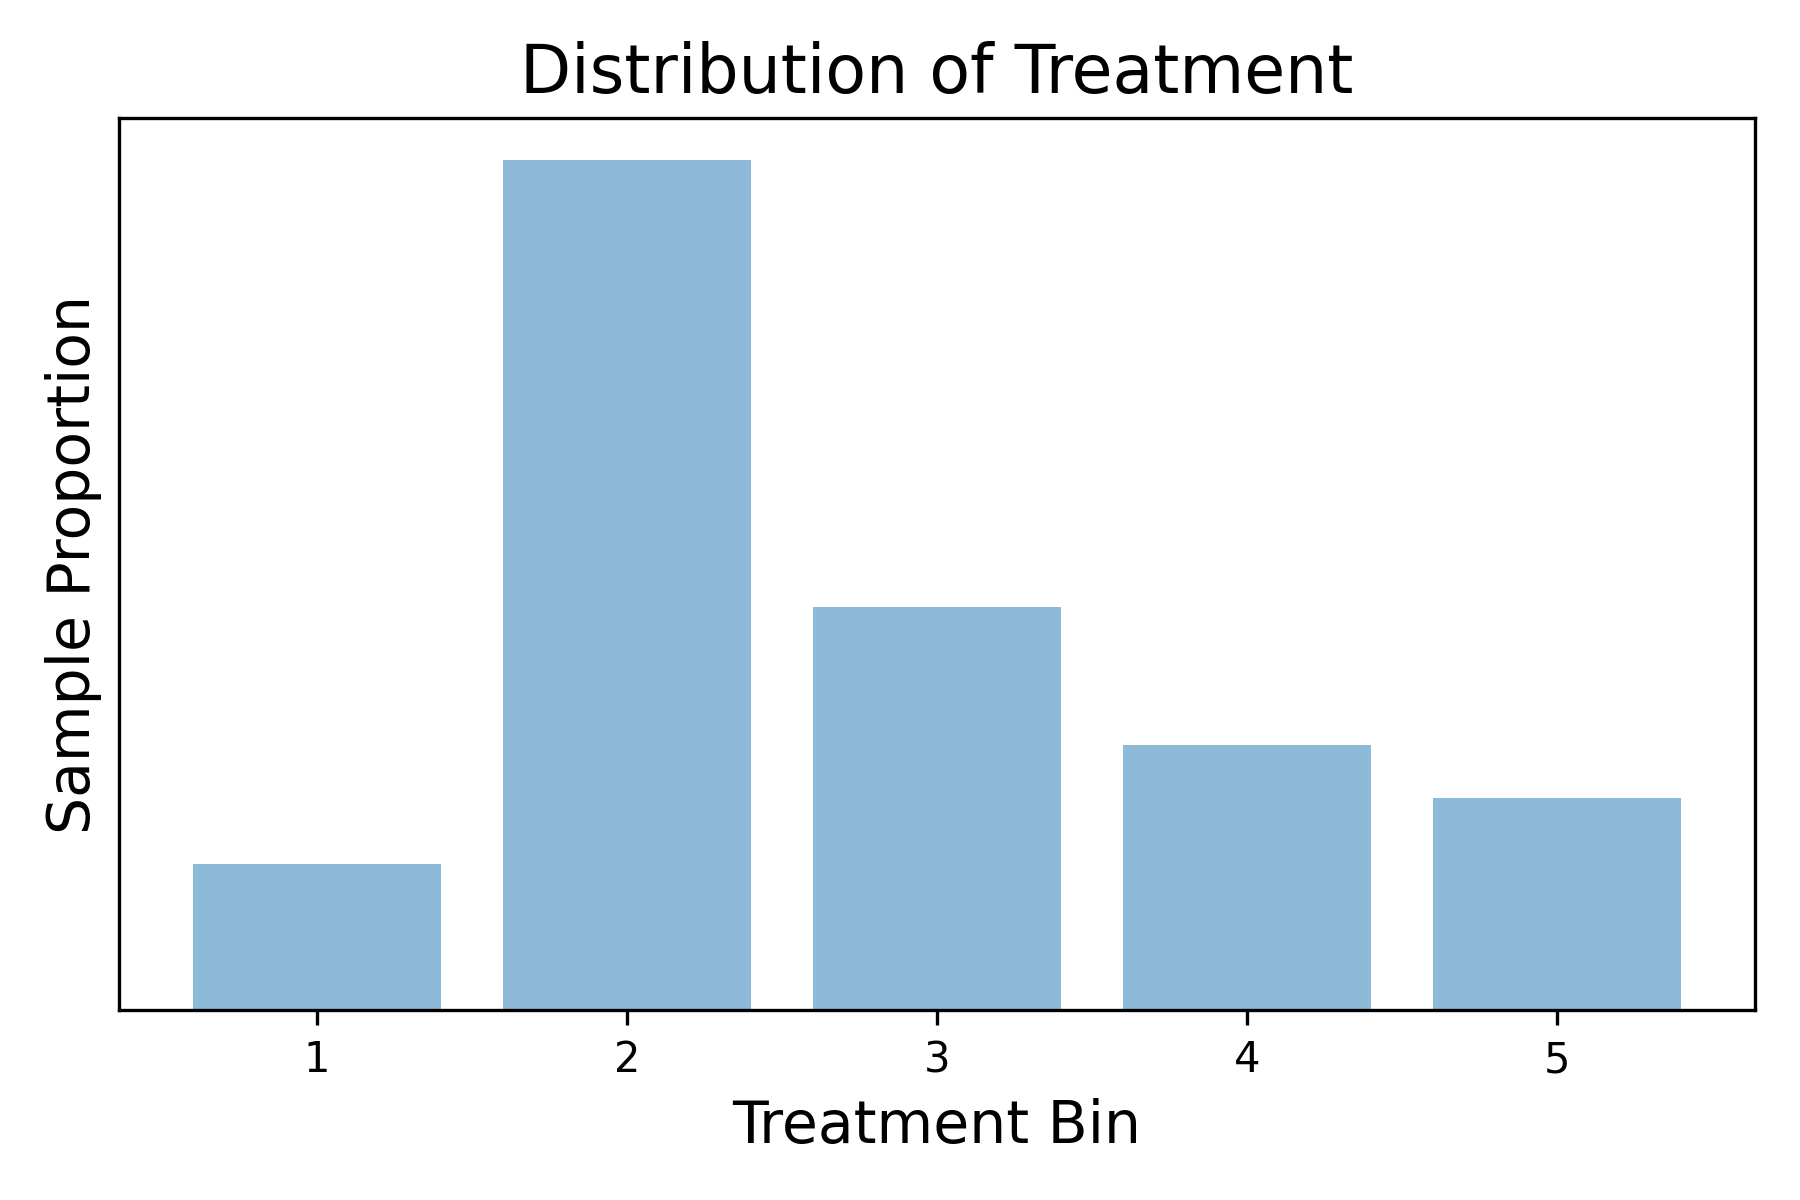
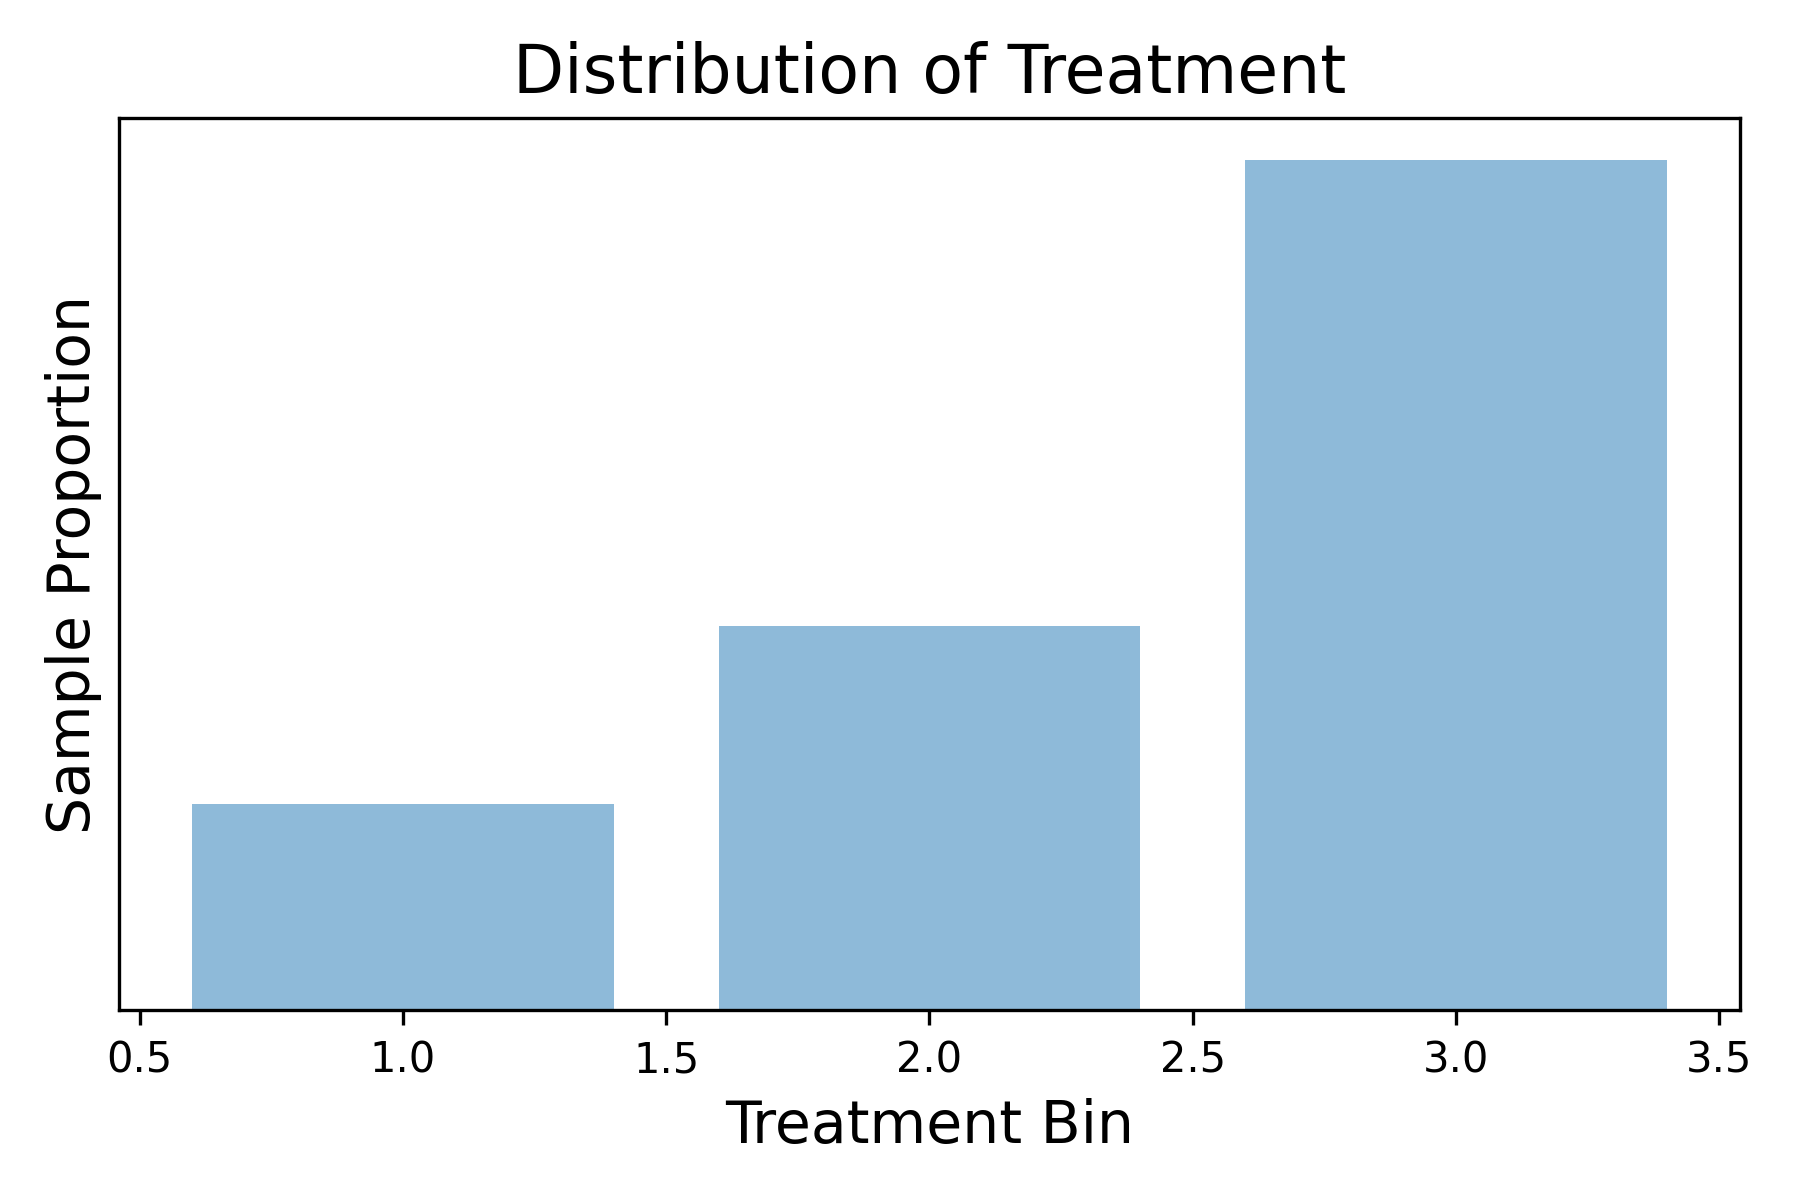
Update empirical code

diff --git a/code/empirics.py b/code/empirics.py
@@ -56,6 +56,11 @@ def require_nonzero_std(value, name):
         )
 
 
+def validate_num_bins(num_bins):
+    if not isinstance(num_bins, int) or num_bins < 2:
+        raise ValueError("`num_bins` must be an integer >= 2.")
+
+
 def add_intercept(x):
     x = np.asarray(x, dtype=float)
     return np.c_[np.ones(x.shape[0]), x]
@@ -119,8 +124,13 @@ def train_lgbm_regressor(train_df, validate_df, label_col, min_data_in_leaf):
         params={
             "objective": "regression",
             "metric": "l2",
-            "num_leaves": 1000,
+            "learning_rate": 0.05,
+            "num_leaves": 63,
             "min_data_in_leaf": min_data_in_leaf,
+            "feature_fraction": 0.9,
+            "bagging_fraction": 0.8,
+            "bagging_freq": 1,
+            "lambda_l2": 1.0,
             "seed": SEED,
         },
         train_set=train_data,
@@ -131,22 +141,22 @@ def train_lgbm_regressor(train_df, validate_df, label_col, min_data_in_leaf):
     return model
 
 
-def train_propensity_model(train_df, validate_df, coarse_col):
+def train_propensity_model(train_df, validate_df, coarse_col, num_bins):
     clf = lgb.LGBMClassifier(
         objective="multiclass",
-        num_classes=BUCKETS,
+        num_classes=num_bins,
         metric="multi_logloss",
-        learning_rate=0.01,
+        learning_rate=0.05,
         max_depth=-1,
-        n_estimators=5000,
-        min_data_in_leaf=5,
-        max_bin=1024,
-        num_leaves=1023,
-        feature_fraction=1.0,
-        bagging_fraction=1.0,
-        bagging_freq=0,
+        n_estimators=1500,
+        min_data_in_leaf=30,
+        max_bin=255,
+        num_leaves=127,
+        feature_fraction=0.9,
+        bagging_fraction=0.8,
+        bagging_freq=1,
         lambda_l1=0.0,
-        lambda_l2=0.0,
+        lambda_l2=1.0,
         min_gain_to_split=0.0,
         seed=SEED,
         verbosity=-1,
@@ -182,8 +192,13 @@ def train_aipw_outcome_model(train_df, validate_df, coarse_col):
         params={
             "objective": "regression",
             "metric": "l2",
-            "num_leaves": 255,
-            "min_data_in_leaf": 50,
+            "learning_rate": 0.05,
+            "num_leaves": 63,
+            "min_data_in_leaf": 30,
+            "feature_fraction": 0.9,
+            "bagging_fraction": 0.8,
+            "bagging_freq": 1,
+            "lambda_l2": 1.0,
             "seed": SEED,
         },
         train_set=train_data,
@@ -193,28 +208,25 @@ def train_aipw_outcome_model(train_df, validate_df, coarse_col):
     )
 
 
-def compute_quartiles(series):
+def compute_nonzero_cutpoints(series, num_bins):
+    validate_num_bins(num_bins)
     non_zero_series = series[series > EPS]
-    if len(non_zero_series) == 0:
-        return np.array([EPS, EPS, EPS], dtype=float)
-    return np.percentile(non_zero_series, [25, 50, 75])
+    positive_bins = num_bins - 1
+    if positive_bins <= 1 or len(non_zero_series) == 0:
+        return np.array([], dtype=float)
+    quantiles = np.linspace(0, 100, positive_bins + 1)[1:-1]
+    return np.percentile(non_zero_series, quantiles)
 
 
-def coarsener(x, quartiles):
+def coarsener(x, cutpoints):
     if x <= EPS:
         return 0
-    if x <= quartiles[0]:
-        return 1
-    if x <= quartiles[1]:
-        return 2
-    if x <= quartiles[2]:
-        return 3
-    return 4
+    return int(np.searchsorted(cutpoints, x, side="right") + 1)
 
 
-def coarsen_treatment(df, quartiles):
+def coarsen_treatment(df, cutpoints):
     out = df.copy()
-    out[f"{TREATMENT}_coarse"] = out[TREATMENT].map(lambda x: coarsener(x, quartiles)).astype(int)
+    out[f"{TREATMENT}_coarse"] = out[TREATMENT].map(lambda x: coarsener(x, cutpoints)).astype(int)
     return out
 
 
@@ -293,7 +305,8 @@ def run_rorr(
     }
 
 
-def run_coarsened_aipw(state):
+def run_coarsened_aipw(state, num_bins=BUCKETS):
+    validate_num_bins(num_bins)
     train = state["train"]
     validate = state["validate"]
     test = state["test"]
@@ -302,19 +315,19 @@ def run_coarsened_aipw(state):
     outcome_std = state["outcome_std"]
     treatment_std = state["treatment_std"]
 
-    quartiles = compute_quartiles(train[TREATMENT])
-    data = coarsen_treatment(data, quartiles)
-    train = coarsen_treatment(train, quartiles)
-    validate = coarsen_treatment(validate, quartiles)
-    test = coarsen_treatment(test, quartiles)
+    cutpoints = compute_nonzero_cutpoints(train[TREATMENT], num_bins=num_bins)
+    data = coarsen_treatment(data, cutpoints)
+    train = coarsen_treatment(train, cutpoints)
+    validate = coarsen_treatment(validate, cutpoints)
+    test = coarsen_treatment(test, cutpoints)
     coarse_col = f"{TREATMENT}_coarse"
 
-    propensity_model = train_propensity_model(train, validate, coarse_col)
+    propensity_model = train_propensity_model(train, validate, coarse_col, num_bins=num_bins)
     aipw_outcome_model = train_aipw_outcome_model(train, validate, coarse_col)
     ps = propensity_model.predict_proba(test[COVARIATES])
 
     y_hat_by_level = []
-    for level in range(BUCKETS):
+    for level in range(num_bins):
         test_level = test[[*COVARIATES]].copy()
         test_level[coarse_col] = level
         y_hat_level = predict_with_model(aipw_outcome_model, test_level[[*COVARIATES, coarse_col]])
@@ -328,16 +341,16 @@ def run_coarsened_aipw(state):
             pred_outcome_level=y_hat_by_level[level],
             pscores=ps,
         )
-        for level in range(BUCKETS)
+        for level in range(num_bins)
     ]
 
     ## Check balance on pre-treatment covariate.
     pre_weighting = (
-        test.groupby(coarse_col)[CHECK_COVARIATE].mean().reindex(np.arange(BUCKETS), fill_value=np.nan).to_numpy()
+        test.groupby(coarse_col)[CHECK_COVARIATE].mean().reindex(np.arange(num_bins), fill_value=np.nan).to_numpy()
     )
     post_weighting = np.array([
         compute_ipw_weighted_mean(level, test[CHECK_COVARIATE], test[coarse_col], ps)
-        for level in range(BUCKETS)
+        for level in range(num_bins)
     ])
     pre_weighting_std = test[CHECK_COVARIATE].std()
     require_nonzero_std(pre_weighting_std, f"{CHECK_COVARIATE}_std")
@@ -345,7 +358,7 @@ def run_coarsened_aipw(state):
     pre_weighting_diff = (pre_weighting - pre_weighting[0]) / pre_weighting_std
     post_weighting_diff = (post_weighting - post_weighting[0]) / pre_weighting_std
 
-    bins = np.arange(BUCKETS)
+    bins = np.arange(num_bins)
     plt.figure(figsize=(6, 4))
     plt.axvline(x=0, color="pink", linewidth=1.5, zorder=0)
     plt.axvline(x=0.2, color="grey", linestyle="--", linewidth=1)
@@ -370,7 +383,7 @@ def run_coarsened_aipw(state):
 
     plt.figure(figsize=(6, 4))
     plt.bar(
-        x=np.arange(1, BUCKETS + 1),
+        x=np.arange(1, num_bins + 1),
         height=means,
         yerr=conf_intervals,
         capsize=5,
@@ -385,18 +398,18 @@ def run_coarsened_aipw(state):
     plt.savefig("figures/emp-dose-response.png", dpi=300)
     plt.close()
 
-    incremental_means = np.array([means[i + 1] - means[i] for i in range(BUCKETS - 1)])
+    incremental_means = np.array([means[i + 1] - means[i] for i in range(num_bins - 1)])
     incremental_stderrs = np.array(
         [
             np.sqrt(aipw_by_level[i + 1].var(ddof=1) / len(aipw_by_level[i + 1]) + aipw_by_level[i].var(ddof=1) / len(aipw_by_level[i]))
-            for i in range(BUCKETS - 1)
+            for i in range(num_bins - 1)
         ]
     )
     incremental_cis = 1.96 * incremental_stderrs
 
     plt.figure(figsize=(6, 4))
     plt.bar(
-        x=np.arange(1, BUCKETS),
+        x=np.arange(1, num_bins),
         height=incremental_means,
         yerr=incremental_cis,
         capsize=5,
@@ -406,7 +419,11 @@ def run_coarsened_aipw(state):
     plt.yticks([])
     plt.ylabel("Effect on Outcome", fontsize=14)
     plt.xlabel("Treatment Bin Increment", fontsize=14)
-    plt.xticks(ticks=np.arange(1, BUCKETS), labels=[f"{i} to {i+1}" for i in range(1, BUCKETS)], fontsize=12)
+    plt.xticks(
+        ticks=np.arange(1, num_bins),
+        labels=[f"{i} to {i+1}" for i in range(1, num_bins)],
+        fontsize=12,
+    )
     plt.axhline(y=0, color="pink", linewidth=1.5, zorder=0)
     plt.title("Estimated Effect of Treatment on Outcome (AIPW)", fontsize=16)
     plt.tight_layout()
@@ -414,10 +431,10 @@ def run_coarsened_aipw(state):
     plt.close()
 
     distribution = (
-        data[coarse_col].value_counts(normalize=True).reindex(np.arange(BUCKETS), fill_value=0.0).to_numpy()
+        data[coarse_col].value_counts(normalize=True).reindex(np.arange(num_bins), fill_value=0.0).to_numpy()
     )
     plt.figure(figsize=(6, 4))
-    plt.bar(x=np.arange(1, BUCKETS + 1), height=distribution, alpha=0.5)
+    plt.bar(x=np.arange(1, num_bins + 1), height=distribution, alpha=0.5)
     plt.yticks([])
     plt.ylabel("Sample Proportion", fontsize=14)
     plt.xlabel("Treatment Bin", fontsize=14)
@@ -427,7 +444,7 @@ def run_coarsened_aipw(state):
     plt.close()
 
     bin_medians = (
-        test.groupby(coarse_col)[TREATMENT].median().reindex(np.arange(BUCKETS), fill_value=np.nan)
+        test.groupby(coarse_col)[TREATMENT].median().reindex(np.arange(num_bins), fill_value=np.nan)
     )
     bin_deltas = (bin_medians.iloc[1:].to_numpy() - bin_medians.iloc[:-1].to_numpy()) / treatment_std
     safe_deltas = np.where(np.abs(bin_deltas) < EPS, np.nan, bin_deltas)
@@ -439,17 +456,17 @@ def run_coarsened_aipw(state):
 
     aipw_incremental_arrays = [
         (aipw_by_level[i + 1] - aipw_by_level[i]) / outcome_std / safe_deltas[i]
-        for i in range(BUCKETS - 1)
+        for i in range(num_bins - 1)
     ]
     aipw_treatment_effects = np.array([arr.mean() for arr in aipw_incremental_arrays])
     aipw_treatment_effects_var = np.array([arr.var(ddof=1) / len(arr) for arr in aipw_incremental_arrays])
 
     weights = (
         test[coarse_col].value_counts(normalize=True)
-        .reindex(np.arange(BUCKETS - 1), fill_value=0.0)
+        .reindex(np.arange(num_bins - 1), fill_value=0.0)
         .to_numpy()
     )
-    aggregate_if = np.sum([weights[i] * aipw_incremental_arrays[i] for i in range(BUCKETS - 1)], axis=0)
+    aggregate_if = np.sum([weights[i] * aipw_incremental_arrays[i] for i in range(num_bins - 1)], axis=0)
     aipw_mean_all = float(np.mean(aggregate_if))
     aipw_std_all = float(np.sqrt(np.var(aggregate_if, ddof=1) / len(aggregate_if)))
     aipw_ci = (aipw_mean_all - 1.96 * aipw_std_all, aipw_mean_all + 1.96 * aipw_std_all)
@@ -470,7 +487,8 @@ def run_coarsened_aipw(state):
         "aipw_weighted_effect": aipw_mean_all,
         "aipw_weighted_std": aipw_std_all,
         "aipw_weighted_ci": aipw_ci,
-        "quartiles": quartiles,
+        "cutpoints": cutpoints,
+        "num_bins": num_bins,
     }
 
 
